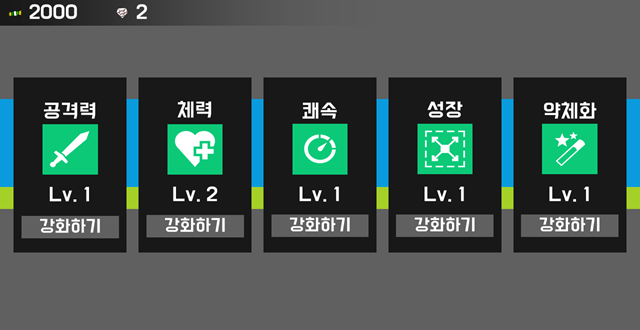
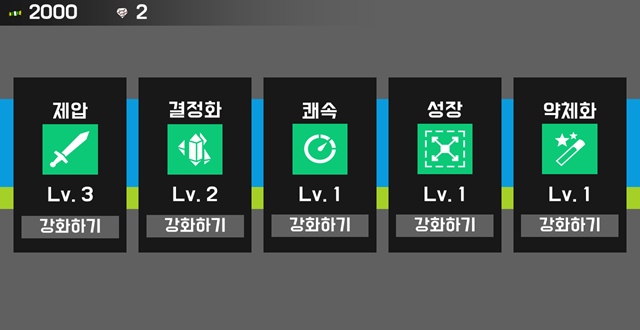
공격력, 화력의 용어 수정

diff --git a/src/Sections/System.js b/src/Sections/System.js
@@ -75,16 +75,16 @@ function System5() {
             </div>
             <div className="Main-text">
                 패시브 스킬은 초록색으로 표시되며, 효과는 다음과 같다.<br /><br />
-                공격력: 레벨 상승시마다 <mark>고정 피해 (damage)</mark>가 하단의 공식을 따른다.<br />
+                제압: 레벨 상승시마다 <mark>고정 피해 (damage)</mark>가 하단의 공식을 따른다.<br />
                 <div className="code-box">
                     <mark>//int damage0은 레벨 0 기준 고정 피해</mark><br />
                     (hp - damage0) * (1 + (level * 0.2));
                 </div>
-                화력: 레벨 상승시마다 <mark>퓨어 오브의 화력 (force)이 증가</mark>한다.<br />
+                기세: 레벨 상승시마다 <mark>퓨어 오브의 화력 (force)이 증가</mark>한다.<br />
+                약체화: 레벨 상승시마다 <mark>임팩테이블의 최소 충격량 값 (limit)이 감소</mark>한다.
                 결정화: 레벨 상승시마다 <mark>HP가 1씩 증가</mark>한다. (유일하게 최대 레벨이 5이다.)<br />
                 쾌속: 레벨 상승시마다 <mark>게이지가 차오르는 속도가 증가</mark>한다.<br />
                 성장: 레벨 상승시마다 <mark>퓨어 오브의 크기 (scale)와 범위가 증가</mark>한다.<br />
-                약체화: 레벨 상승시마다 <mark>임팩테이블의 최소 충격량 값 (limit)이 감소</mark>한다.
             </div>
         </>
     );
